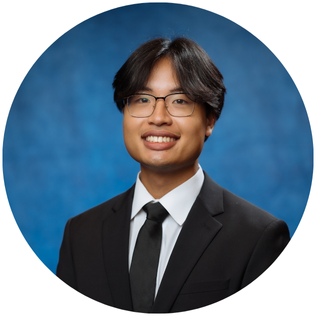
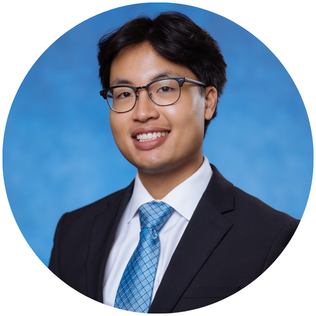
updated headshot

diff --git a/assets/assets.js b/assets/assets.js
@@ -92,7 +92,7 @@ export const assets = {
 export const workData = [
     {
         title: 'BeaverLink (OSU Capstone)',
-        description: 'OSU networking mobile app in partnership with the OSU Alumni Association that enhances networking at OSU events',
+        description: 'OSU networking mobile app in partnership with the OSU Alumni Association that enhances networking at OSU events.',
         bgImage: '/beaverlink.png',
         link: 'https://capstone.eecs.oregonstate.edu/projects/000151ee-b358-54c7-9f1c-c3380f3e46f4'
     },
